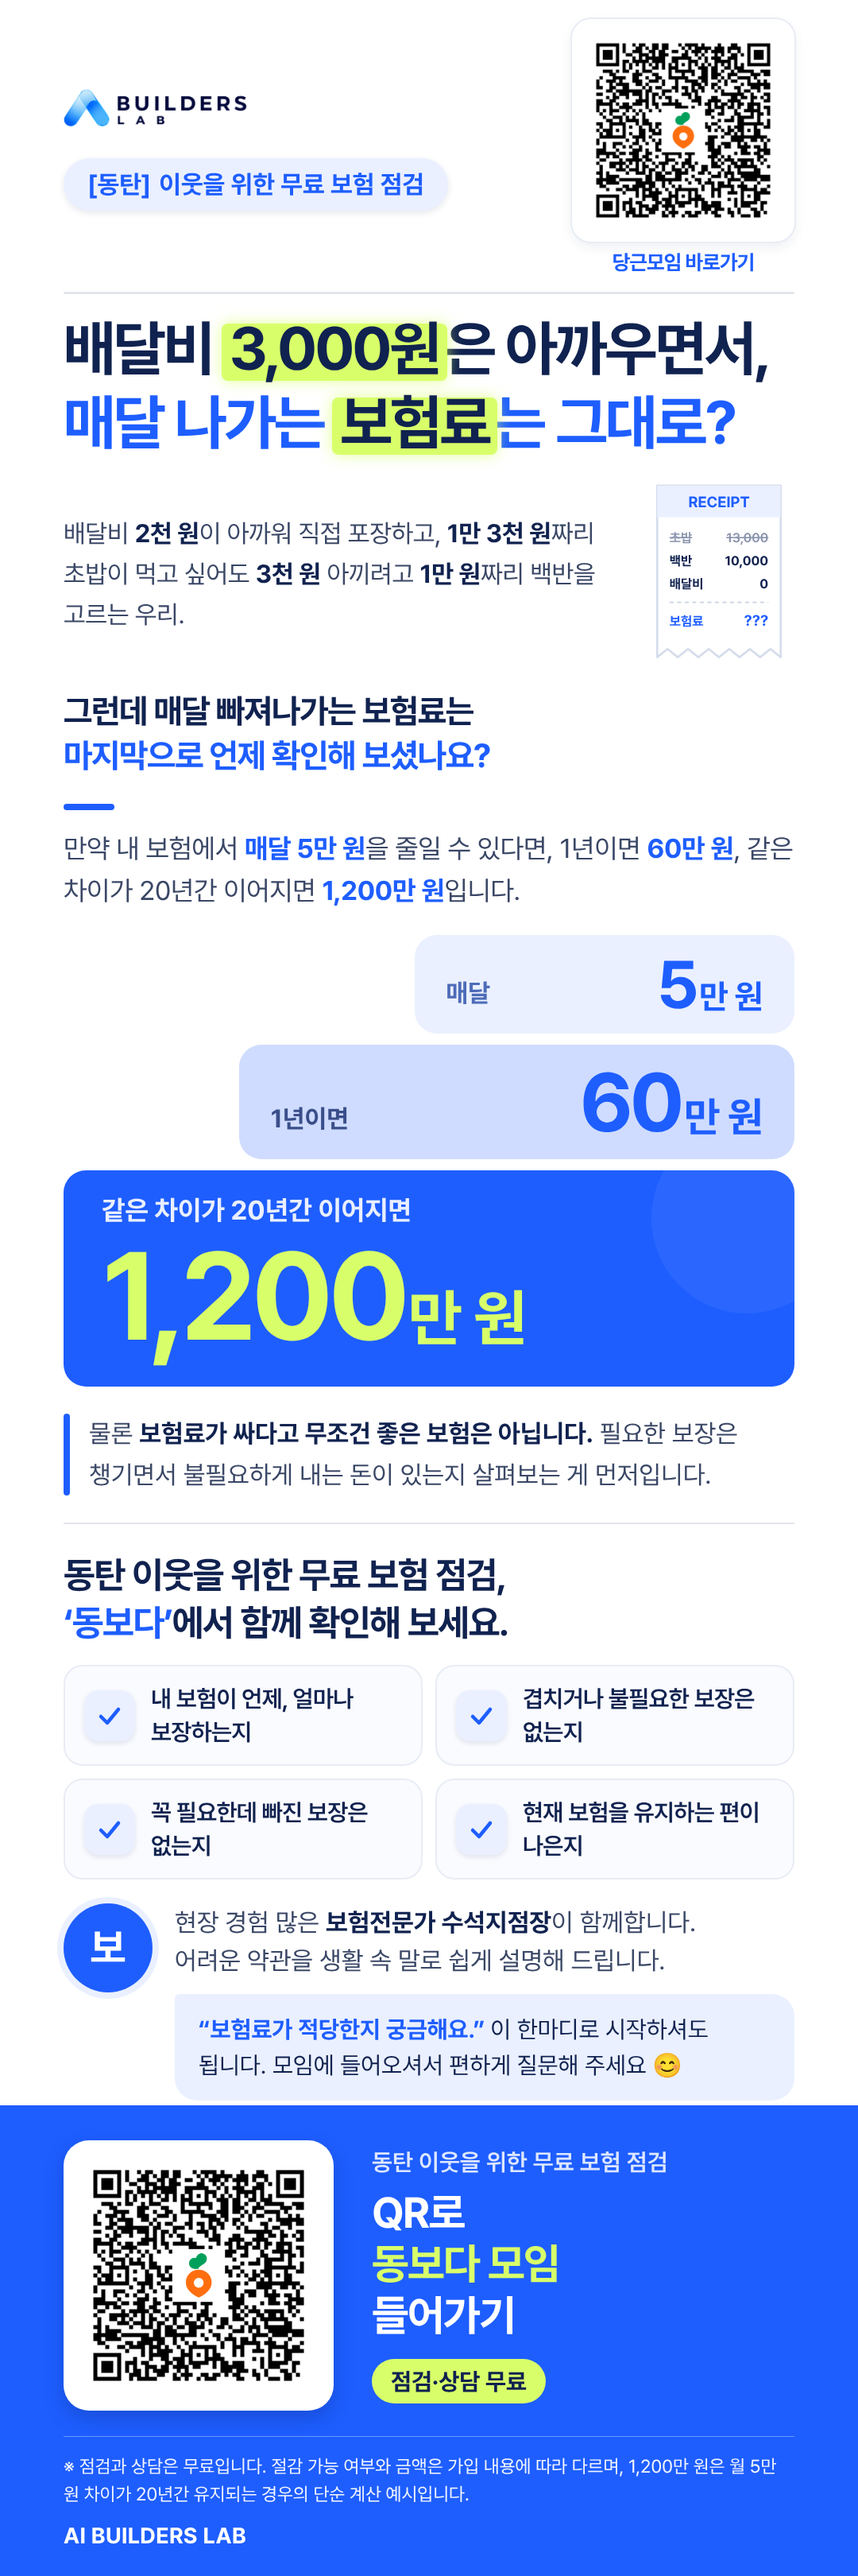
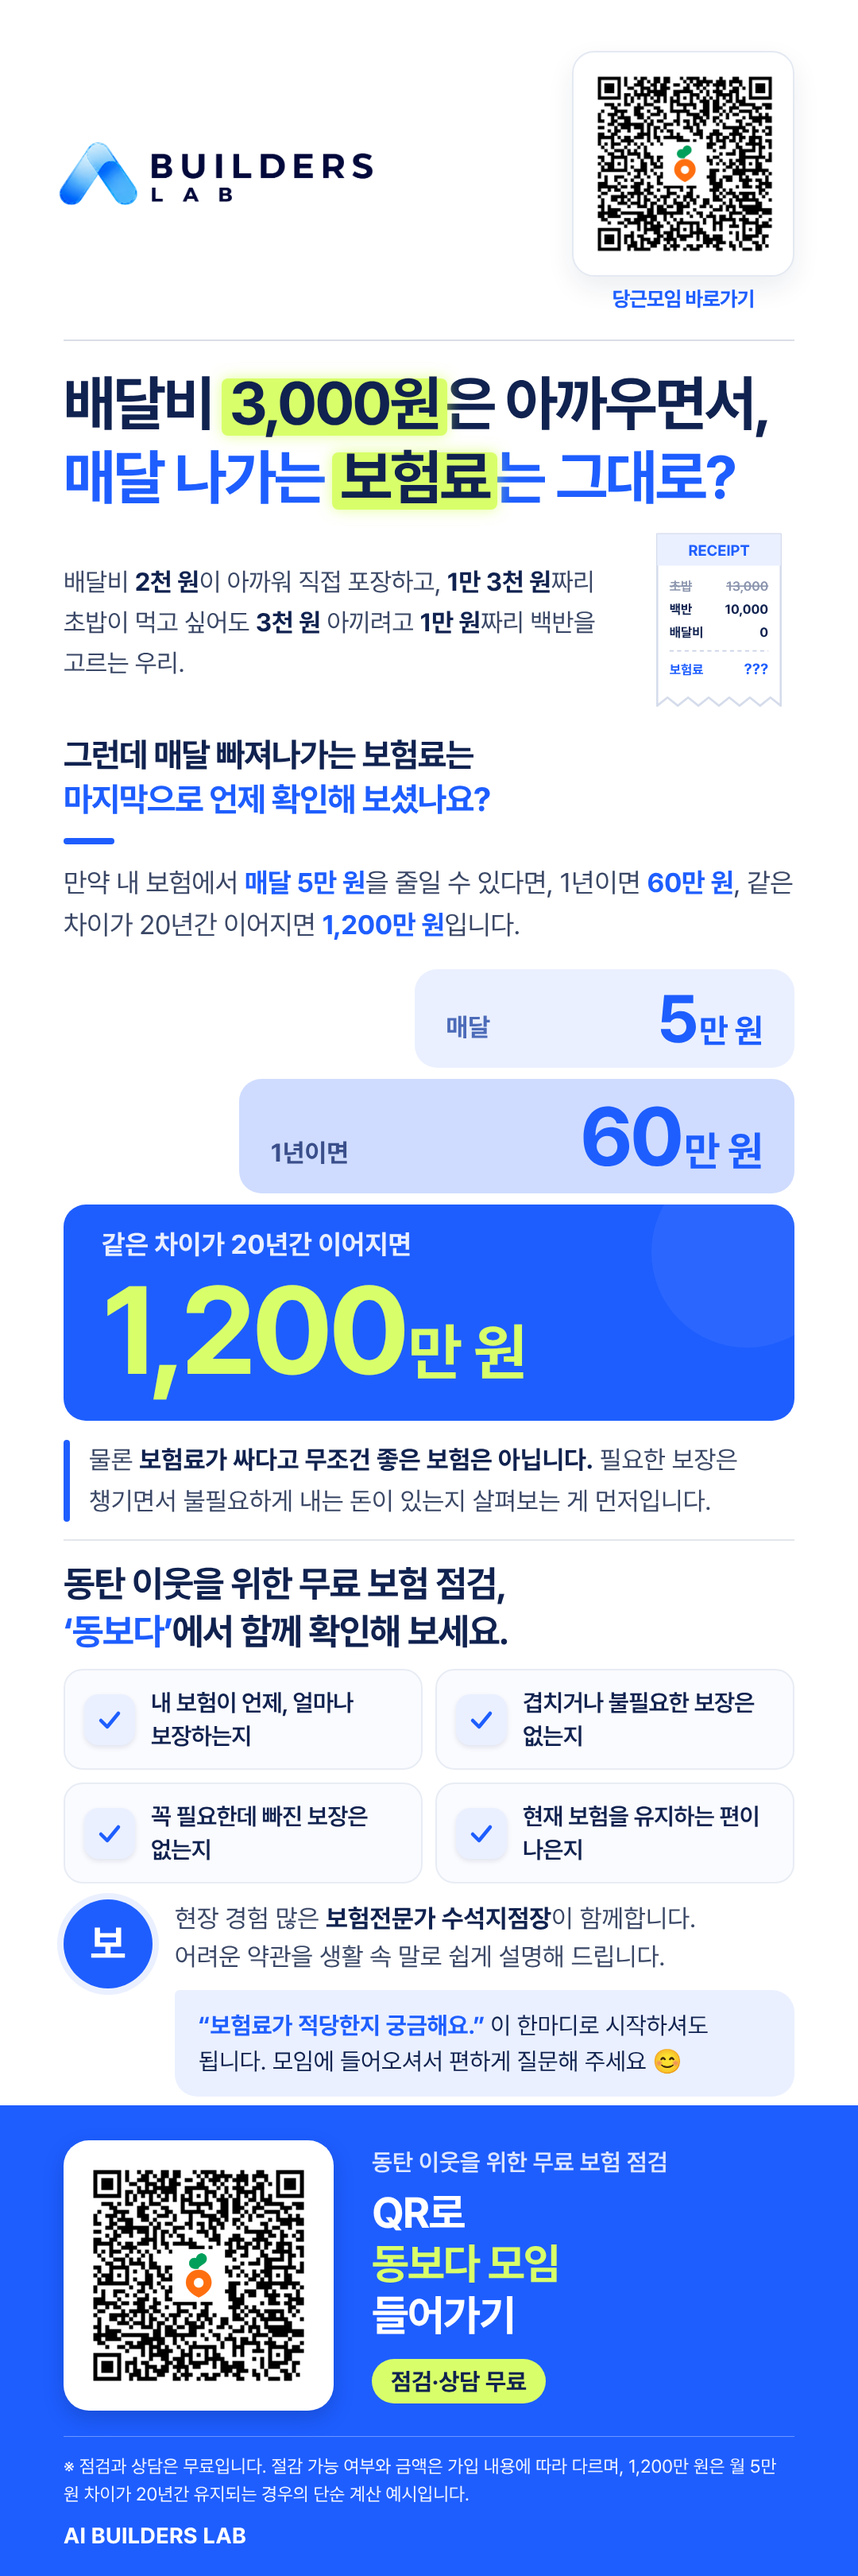
시안 A 상단 로고를 다른 최종 배너와 맞추고 [동탄] 배지를 제거

diff --git a/design/poster-A.html b/design/poster-A.html
@@ -17,36 +17,28 @@
   .blue { color: #1E5EFF; }
   .lime { color: #D8FF6A; }
 
-  /* header */
-  .header { padding-top: 24px; }
+  /* header — match aiedu final C-v logo/rule/QR row */
+  .header { padding-top: 64px; }
   .header-row {
     display: flex; align-items: center; justify-content: space-between;
-    gap: 28px;
+    gap: 40px;
   }
-  .header-left { display: flex; flex-direction: column; align-items: flex-start; gap: 22px; min-width: 0; }
-  .logo { height: 72px; display: block; }
+  .logo { display: block; width: 400px; height: auto; margin-left: -6px; }
   .top-qr { flex: none; width: 280px; text-align: center; }
   .top-qr-card {
-    background: #fff; padding: 16px; border-radius: 24px;
-    box-shadow: 0 0 0 2px #E8ECF4, 0 6px 16px rgba(16,34,79,.08);
+    background: #fff; padding: 16px; border-radius: 28px;
+    border: 2px solid #E4E9F2; box-shadow: 0 14px 34px rgba(16,34,79,.08);
   }
   .top-qr-card img { width: 248px; height: 248px; display: block; }
   .top-qr-cap {
-    margin-top: 10px; font-size: 26px; font-weight: 800;
+    margin-top: 12px; font-size: 26px; font-weight: 800;
     color: #1E5EFF; letter-spacing: -0.03em; line-height: 1.2;
   }
-  .rule { height: 3px; background: #E3E6EC; margin-top: 22px; border-radius: 2px; }
+  .rule { height: 2px; background: #D9DEE8; margin: 36px 0 0; }
 
   /* hero */
-  .badge {
-    display: inline-flex; align-items: center; gap: 10px;
-    padding: 14px 30px; border-radius: 999px;
-    background: #EAF0FF; color: #1E5EFF; font-size: 32px; font-weight: 700;
-    box-shadow: 0 3px 8px rgba(16,34,79,.10);
-  }
-  .badge b { font-weight: 800; }
   .headline {
-    margin-top: 22px; font-size: 76px; font-weight: 800; line-height: 1.22;
+    margin-top: 32px; font-size: 76px; font-weight: 800; line-height: 1.22;
     letter-spacing: -0.04em; white-space: nowrap;
   }
   .nowrap { white-space: nowrap; }
@@ -63,17 +55,17 @@
   .bar { width: 64px; height: 8px; border-radius: 4px; background: #1E5EFF; }
 
   /* empathy */
-  .empathy { display: flex; gap: 40px; align-items: center; margin-top: 24px; }
+  .empathy { display: flex; gap: 40px; align-items: center; margin-top: 16px; }
   .empathy p { flex: 1; font-size: 32px; line-height: 1.6; color: #3A4766; letter-spacing: -0.01em; }
   .empathy p strong { color: #10224F; font-weight: 700; }
   .receipt { flex: 0 0 190px; height: 242px; }
   .question {
-    margin-top: 22px; font-size: 42px; font-weight: 800; line-height: 1.35;
+    margin-top: 16px; font-size: 42px; font-weight: 800; line-height: 1.35;
     letter-spacing: -0.03em;
   }
 
   /* numbers staircase */
-  .numbers { margin-top: 32px; }
+  .numbers { margin-top: 20px; }
   .lead { font-size: 34px; line-height: 1.55; color: #3A4766; letter-spacing: -0.01em; }
   .lead strong { color: #1E5EFF; font-weight: 800; }
   .steps { margin-top: 30px; display: flex; flex-direction: column; align-items: flex-end; gap: 14px; }
@@ -104,16 +96,16 @@
   }
 
   /* balance */
-  .balance { margin-top: 34px; display: flex; gap: 24px; }
+  .balance { margin-top: 24px; display: flex; gap: 24px; }
   .balance .bar { flex: 0 0 8px; width: 8px; height: auto; }
   .balance p { font-size: 32px; line-height: 1.6; color: #3A4766; }
   .balance p strong { color: #10224F; font-weight: 700; }
 
-  .divider { height: 2px; background: #E3E6EC; margin-top: 34px; }
+  .divider { height: 2px; background: #E3E6EC; margin-top: 22px; }
 
   /* guide + checklist */
-  .guide { margin-top: 34px; font-size: 46px; font-weight: 800; line-height: 1.3; letter-spacing: -0.03em; }
-  .checks { margin-top: 24px; display: grid; grid-template-columns: 1fr 1fr; gap: 16px; }
+  .guide { margin-top: 24px; font-size: 46px; font-weight: 800; line-height: 1.3; letter-spacing: -0.03em; }
+  .checks { margin-top: 18px; display: grid; grid-template-columns: 1fr 1fr; gap: 16px; }
   .check {
     display: flex; align-items: center; gap: 20px; padding: 20px 24px;
     border: 2px solid #E8ECF4; border-radius: 24px; background: #FAFBFF;
@@ -126,7 +118,7 @@
   .check span { font-size: 30px; font-weight: 600; line-height: 1.38; letter-spacing: -0.02em; }
 
   /* consultant */
-  .consult { margin-top: 30px; display: flex; gap: 28px; align-items: flex-start; }
+  .consult { margin-top: 20px; display: flex; gap: 28px; align-items: flex-start; }
   .avatar {
     flex: 0 0 112px; height: 112px; border-radius: 50%; background: #1E5EFF; color: #fff;
     font-size: 52px; font-weight: 800; display: flex; align-items: center; justify-content: center;
@@ -171,10 +163,7 @@
   <!-- header -->
   <div class="wrap header">
     <div class="header-row">
-      <div class="header-left">
-        <img class="logo" src="../site/logo.png" alt="AI BUILDERS LAB">
-        <div class="badge"><b>[동탄]</b> 이웃을 위한 무료 보험 점검</div>
-      </div>
+      <img class="logo" src="../site/logo.png" alt="AI BUILDERS LAB">
       <div class="top-qr">
         <div class="top-qr-card">
           <img src="../site/daangn-qr.png" width="248" height="248" alt="당근모임 바로가기 QR">
